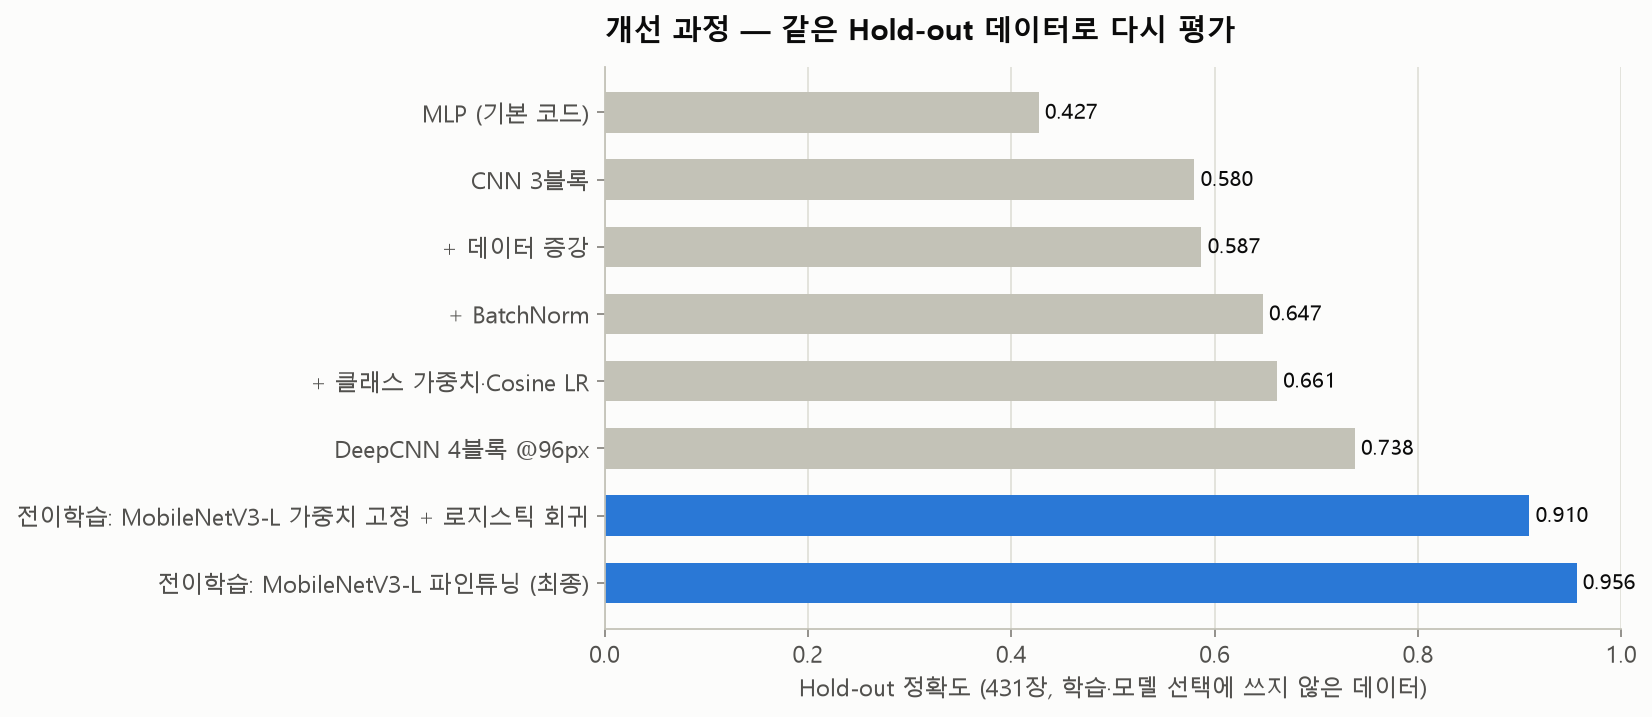
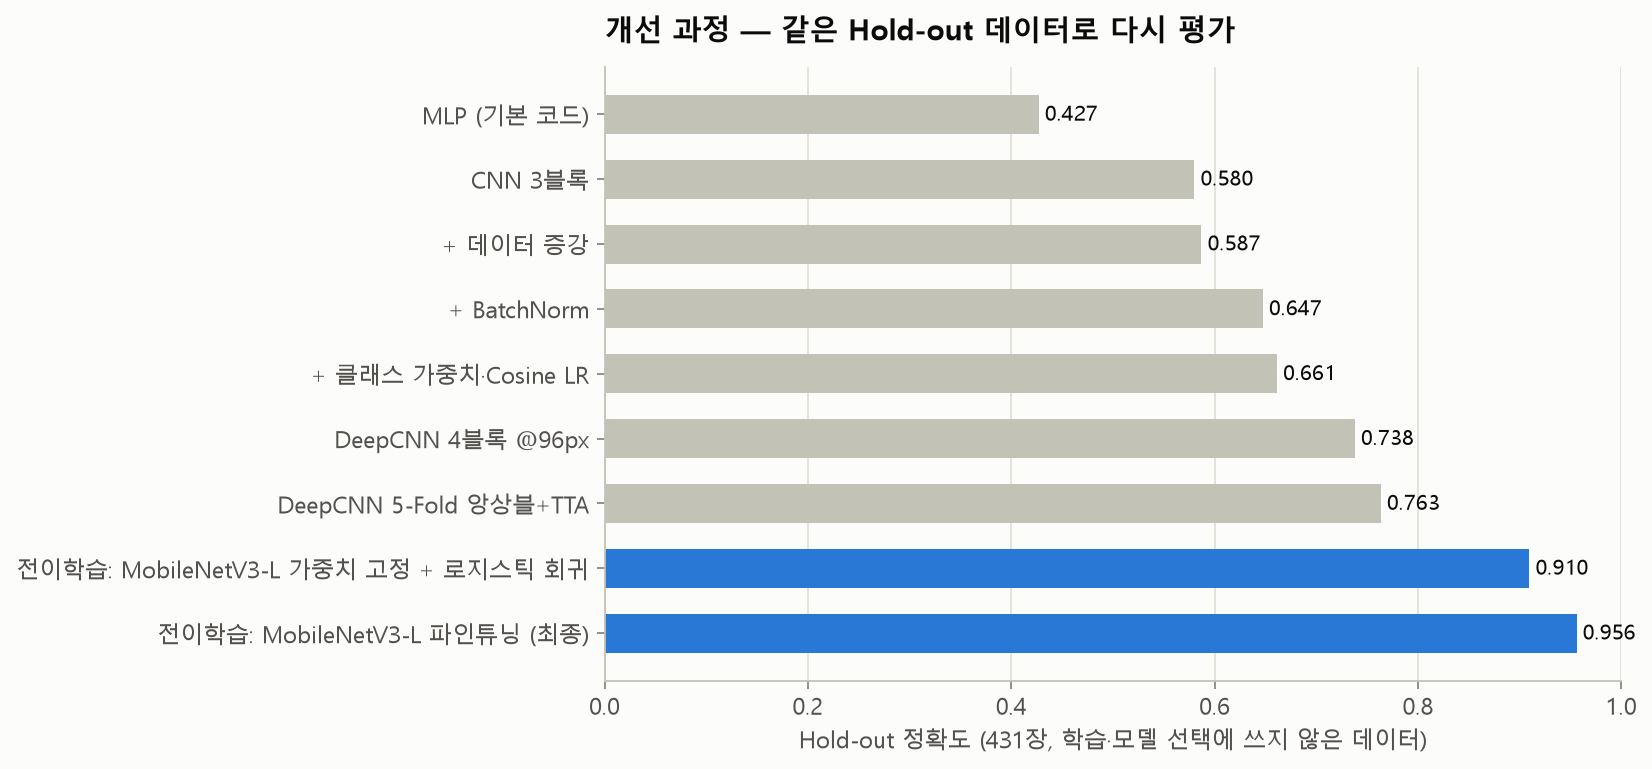
Complete competition baseline comparison and finalize README
- Step 6 (5-fold DeepCNN ensemble + TTA, the final competition model)
  re-evaluated on the hold-out: accuracy 0.763, macro-F1 0.751
- Add confusion-matrix and per-class F1 figures comparing it with the
  fine-tuned MobileNetV3 (0.956 / 0.951)
- Journey chart: start bars at zero and show frozen vs fine-tuned
  MobileNetV3 for the transfer-learning step
- README: fill in all remaining numbers, journey analysis and trash
  precision/recall comparison; correct the hold-out usage description
  and the lessons-learned comparison

diff --git a/experiments/04_analyze.py b/experiments/04_analyze.py
@@ -97,7 +97,7 @@ def fig_probe(probe):
 
 def fig_confusion(before, after, before_title, after_title):
     cmap = LinearSegmentedColormap.from_list("blue", P.BLUE_RAMP)
-    fig, axes = plt.subplots(1, 2, figsize=(11, 4.6))
+    fig, axes = plt.subplots(1, 2, figsize=(10, 4.8))
     for ax, res, title in zip(axes, (before, after), (before_title, after_title)):
         cm = np.array(res["confusion_matrix"], dtype=float)
         cm = cm / cm.sum(1, keepdims=True)
@@ -105,7 +105,7 @@ def fig_confusion(before, after, before_title, after_title):
         ax.grid(False)
         ax.set_xticks(range(6), CLASSES, rotation=40, ha="right")
         ax.set_yticks(range(6), CLASSES)
-        ax.set_xlabel("예측"); ax.set_ylabel("정답")
+        ax.set_xlabel("예측"); ax.set_ylabel("정답", rotation=0, labelpad=18, va="center")
         for i in range(6):
             for j in range(6):
                 if cm[i, j] >= 0.005:
